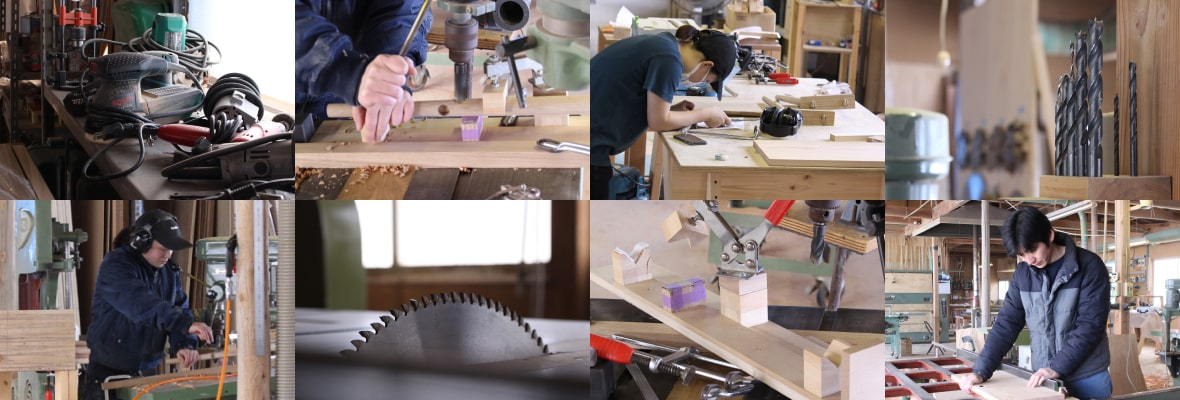
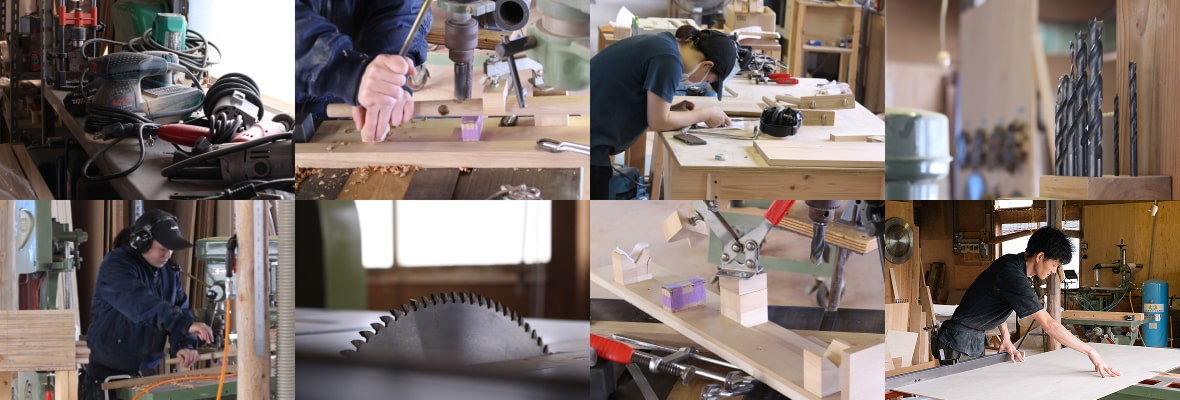
写真変更

Changed region(s): [[0.7322, 0.48, 1.0, 1.0]]

diff --git a/pages/index.tsx b/pages/index.tsx
@@ -717,7 +717,7 @@ const Home: NextPage<Props> = ({allPosts}) => {
                   src="/images/furniture-studio/bg_index.png"
                   alt="ヒダコレ 家具工房のイメージ写真"
                   width={597}
-                  height={1206}
+                  height={1002}
                 />
               </div>
           </section>
